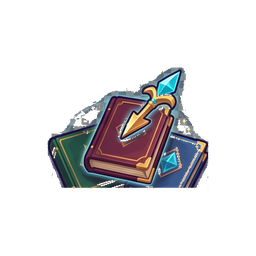
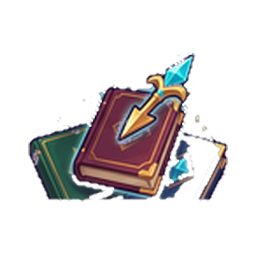
fix: AI Hub ask 아이콘 원본 복원 + recommend 아이콘 원본 시트에서 재크롭 (배경 제거, 여백 확보) + SW 캐시 갱신

Changed region(s): [[0.0938, 0.1875, 0.9062, 0.7812]]

diff --git a/sw.js b/sw.js
@@ -5,7 +5,7 @@
 // (it replaces `bookquest-v<ts>` with a fresh timestamp), so
 // browsers detect sw.js bytes differ and install the new SW.
 // ═══════════════════════════════════════════════════════
-const CACHE_NAME = 'bookquest-v20260428115000';
+const CACHE_NAME = 'bookquest-v20260428120000';
 
 // Only precache files that actually exist at repo root.
 const ASSETS_TO_CACHE = [
